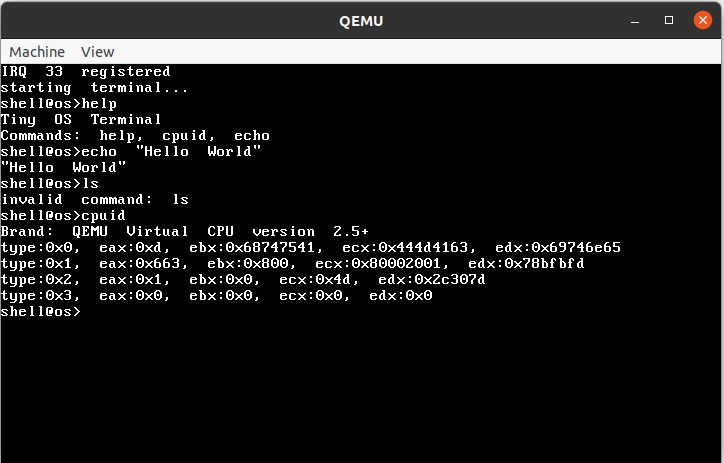
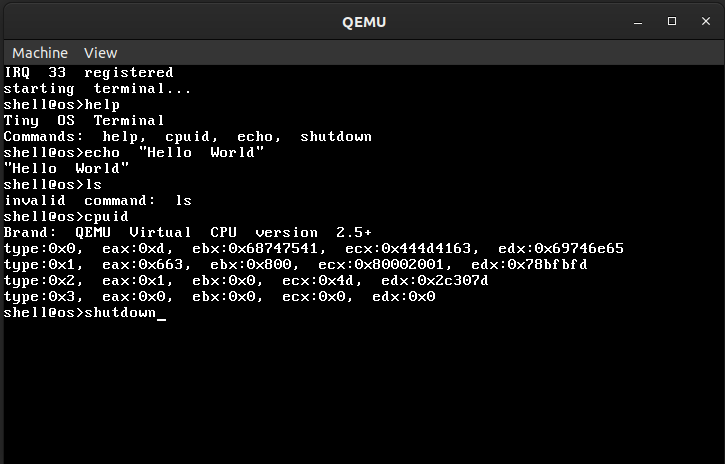
added shutdown command in terminal

Changed region(s): [[0.0, 0.0, 1.0, 1.0], [0.2431, 0.4233, 0.2735, 0.4536]]

diff --git a/NEW KERNEL/Terminal/src/kernel.c b/NEW KERNEL/Terminal/src/kernel.c
@@ -4,6 +4,11 @@
 #include "gdt.h"
 #include "idt.h"
 #include "keyboard.h"
+#include "io_ports.h"
+
+#define BRAND_QEMU  1
+#define BRAND_VBOX  2
+
 
 void __cpuid(uint32 type, uint32 *eax, uint32 *ebx, uint32 *ecx, uint32 *edx) {
     asm volatile("cpuid"
@@ -11,7 +16,7 @@ void __cpuid(uint32 type, uint32 *eax, uint32 *ebx, uint32 *ecx, uint32 *edx) {
                 : "0"(type)); // put the type into eax
 }
 
-void cpuid_info() {
+int cpuid_info(int print) {
     uint32 brand[12];
     uint32 eax, ebx, ecx, edx;
     uint32 type;
@@ -20,11 +25,19 @@ void cpuid_info() {
     __cpuid(0x80000002, (uint32 *)brand+0x0, (uint32 *)brand+0x1, (uint32 *)brand+0x2, (uint32 *)brand+0x3);
     __cpuid(0x80000003, (uint32 *)brand+0x4, (uint32 *)brand+0x5, (uint32 *)brand+0x6, (uint32 *)brand+0x7);
     __cpuid(0x80000004, (uint32 *)brand+0x8, (uint32 *)brand+0x9, (uint32 *)brand+0xa, (uint32 *)brand+0xb);
-    printf("Brand: %s\n", brand);
-    for(type = 0; type < 4; type++) {
-        __cpuid(type, &eax, &ebx, &ecx, &edx);
-        printf("type:0x%x, eax:0x%x, ebx:0x%x, ecx:0x%x, edx:0x%x\n", type, eax, ebx, ecx, edx);
+
+    if (print) {
+        printf("Brand: %s\n", brand);
+        for(type = 0; type < 4; type++) {
+            __cpuid(type, &eax, &ebx, &ecx, &edx);
+            printf("type:0x%x, eax:0x%x, ebx:0x%x, ecx:0x%x, edx:0x%x\n", type, eax, ebx, ecx, edx);
+        }
     }
+
+    if (strstr(brand, "QEMU") != NULL)
+        return BRAND_QEMU;
+
+    return BRAND_VBOX;
 }
 
 BOOL is_echo(char *b) {
@@ -32,6 +45,16 @@ BOOL is_echo(char *b) {
         if(b[4]==' '||b[4]=='\0')
             return TRUE;
     return FALSE;
+}
+
+void shutdown() {
+    int brand = cpuid_info(0);
+    // QEMU
+    if (brand == BRAND_QEMU)
+        outports(0x604, 0x2000);
+    else
+        // VirtualBox
+        outports(0x4004, 0x3400);
 }
 
 void kmain() {
@@ -52,16 +75,19 @@ void kmain() {
         if (strlen(buffer) == 0)
             continue;
         if(strcmp(buffer, "cpuid") == 0) {
-            cpuid_info();
+            cpuid_info(1);
         } else if(strcmp(buffer, "help") == 0) {
             printf("Tiny OS Terminal\n");
-            printf("Commands: help, cpuid, echo\n");
+            printf("Commands: help, cpuid, echo, shutdown\n");
         } else if(is_echo(buffer)) {
             printf("%s\n", buffer + 5);
+        } else if(strcmp(buffer, "shutdown") == 0) {
+            shutdown();
         } else {
             printf("invalid command: %s\n", buffer);
         }
     }
 }
+
 
 

diff --git a/NEW KERNEL/Terminal/src/string.c b/NEW KERNEL/Terminal/src/string.c
@@ -44,6 +44,19 @@ int strcmp(const char *s1, char *s2) {
     return 1;
 }
 
+int strncmp(const char *s1, const char *s2, int c) {
+    int result = 0;
+
+    while (c) {
+        result = *s1 - *s2++;
+        if ((result != 0) || (*s1++ == 0)) {
+            break;
+        }
+        c--;
+    }
+    return result;
+}
+
 int strcpy(char *dst, const char *src) {
     int i = 0;
     while ((*dst++ = *src++) != 0)
@@ -112,3 +125,25 @@ void itoa(char *buf, int base, int d) {
         p2--;
     }
 }
+
+char *strstr(const char *in, const char *str) {
+    char c;
+    uint32 len;
+
+    c = *str++;
+    if (!c)
+        return (char *)in;
+
+    len = strlen(str);
+    do {
+        char sc;
+        do {
+            sc = *in++;
+            if (!sc)
+                return (char *)0;
+        } while (sc != c);
+    } while (strncmp(in, str, len) != 0);
+
+    return (char *)(in - 1);
+}
+

diff --git a/NEW KERNEL/Terminal/include/string.h b/NEW KERNEL/Terminal/include/string.h
@@ -12,6 +12,7 @@ int memcmp(uint8 *s1, uint8 *s2, uint32 n);
 int strlen(const char *s);
 
 int strcmp(const char *s1, char *s2);
+int strncmp(const char *s1, const char *s2, int c);
 
 int strcpy(char *dst, const char *src);
 
@@ -25,4 +26,7 @@ char lower(char c);
 
 void itoa(char *buf, int base, int d);
 
+char *strstr(const char *in, const char *str);
+
 #endif
+
